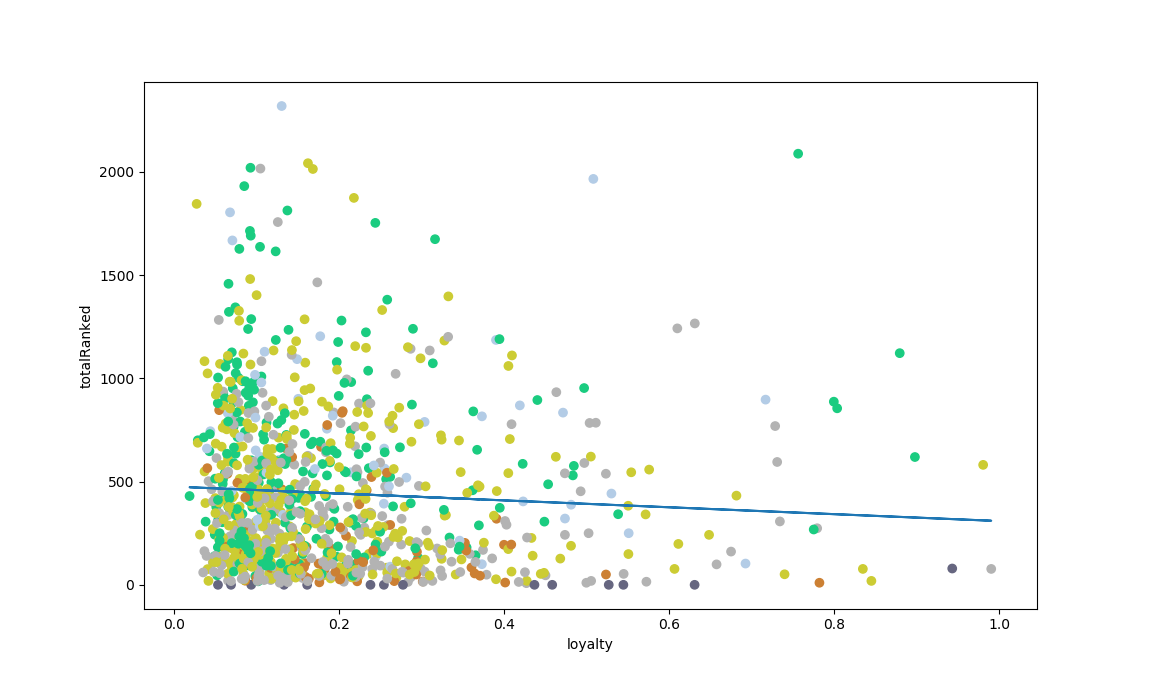
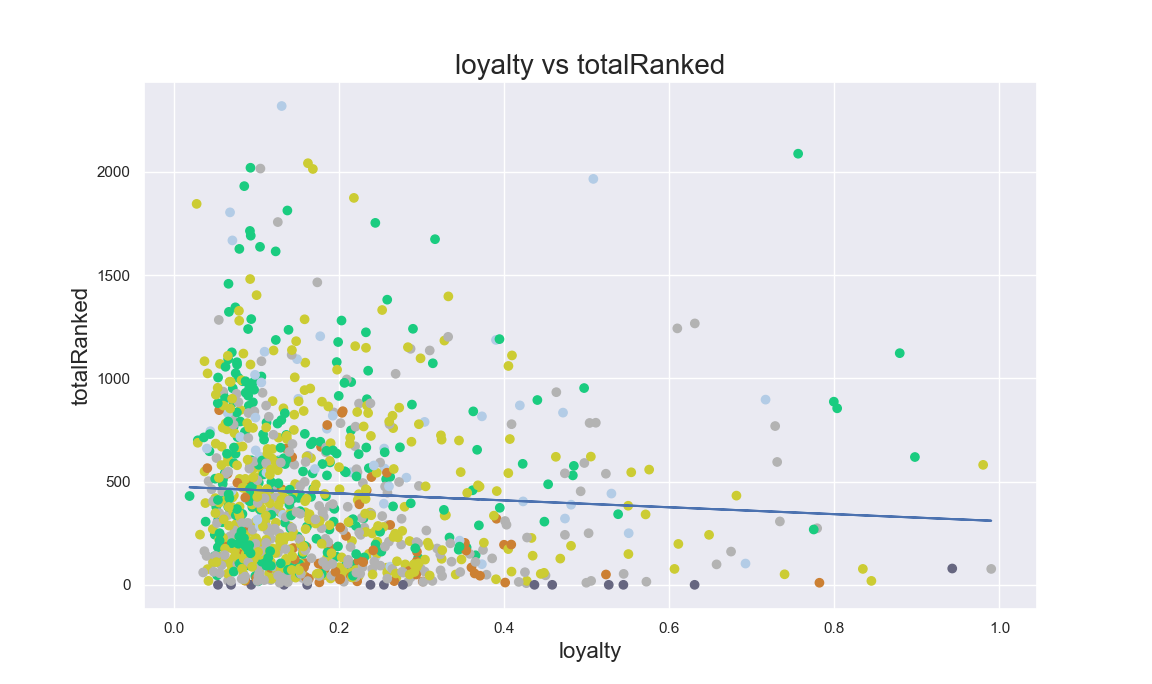
add titles to charts and increase font size

diff --git a/driver.py b/driver.py
@@ -300,6 +300,7 @@ graphs
 player_set = set(sample_players)
 idset = set(range(len(sample_players)))
 
+
 #for quick graphs
 def graph(x,y, **kwargs):
 	fig, ax = plt.subplots()
@@ -311,9 +312,9 @@ def graph(x,y, **kwargs):
 	if logx:
 		ax.set_xscale("log")
 	if xlabel:
-		ax.set_xlabel(xlabel)
+		ax.set_xlabel(xlabel, fontsize=16)
 	if ylabel:
-		ax.set_ylabel(ylabel)
+		ax.set_ylabel(ylabel, fontsize=16)
 
 	mask = np.isfinite(x) & np.isfinite(y)
 	kwarg_color = kwargs.get('c')
@@ -334,7 +335,9 @@ def graph(x,y, **kwargs):
 def graph_from_df(x, y, **kwargs):
 	kwargs['xlabel'] = x
 	kwargs['ylabel'] = y
-	return graph(playerDF[x].to_numpy(), playerDF[y].to_numpy(), **kwargs)
+	ax = graph(playerDF[x].to_numpy(), playerDF[y].to_numpy(), **kwargs)
+	ax.set_title(f"{x} vs {y}", fontsize = 20)
+	return ax
 
 
 def graph_by_class(ax,x,y,clss):
